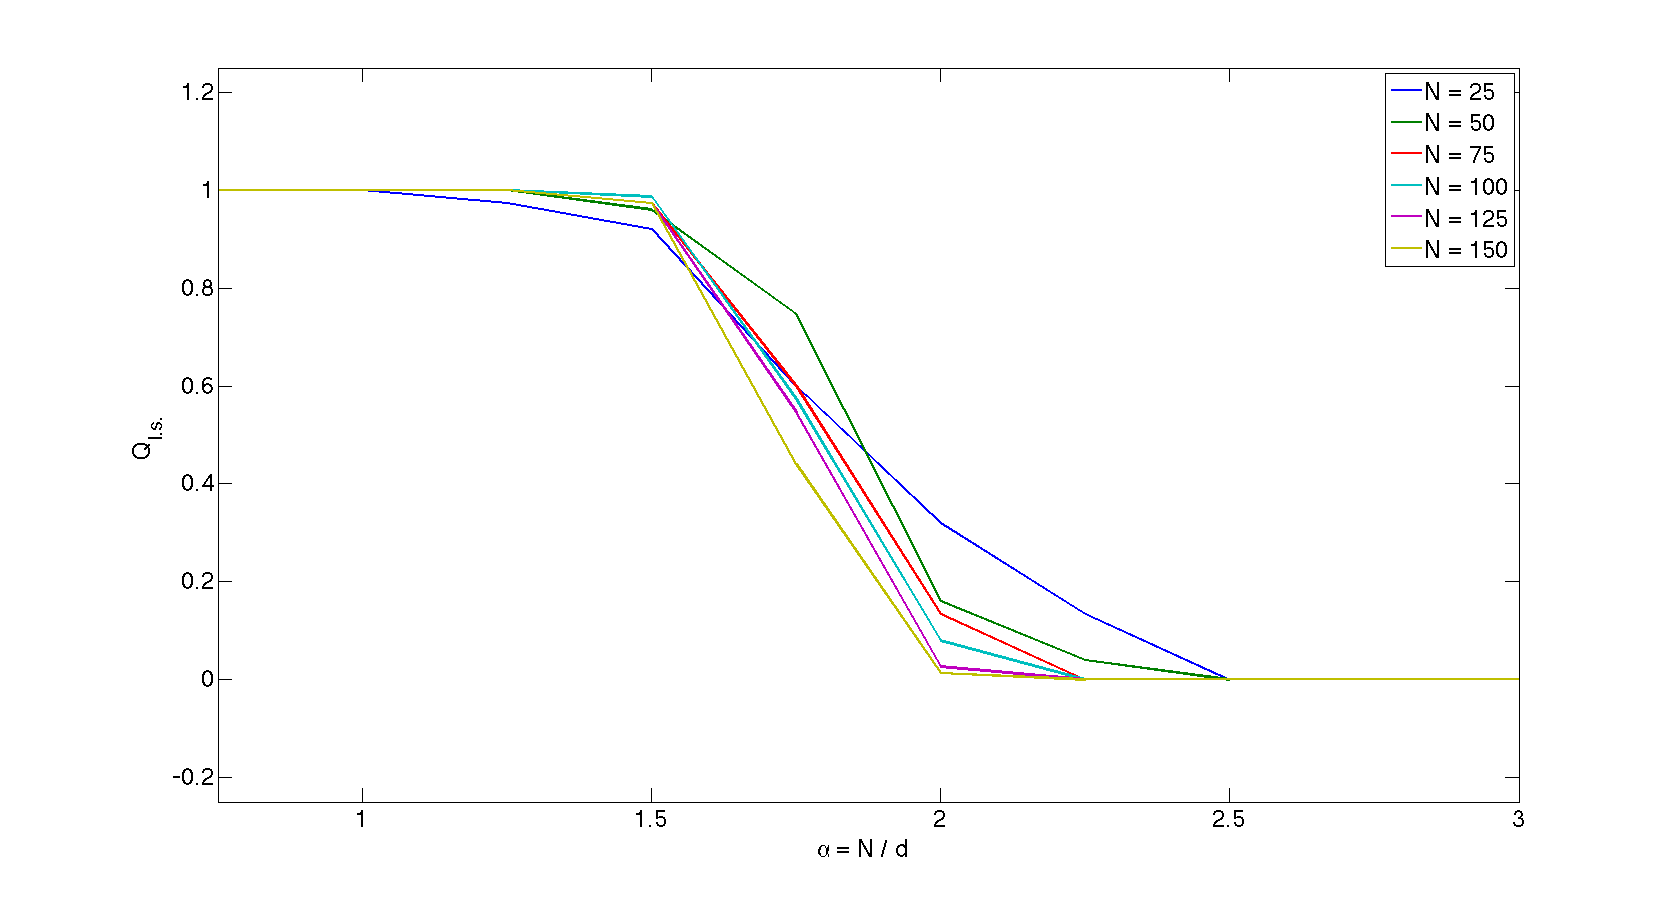
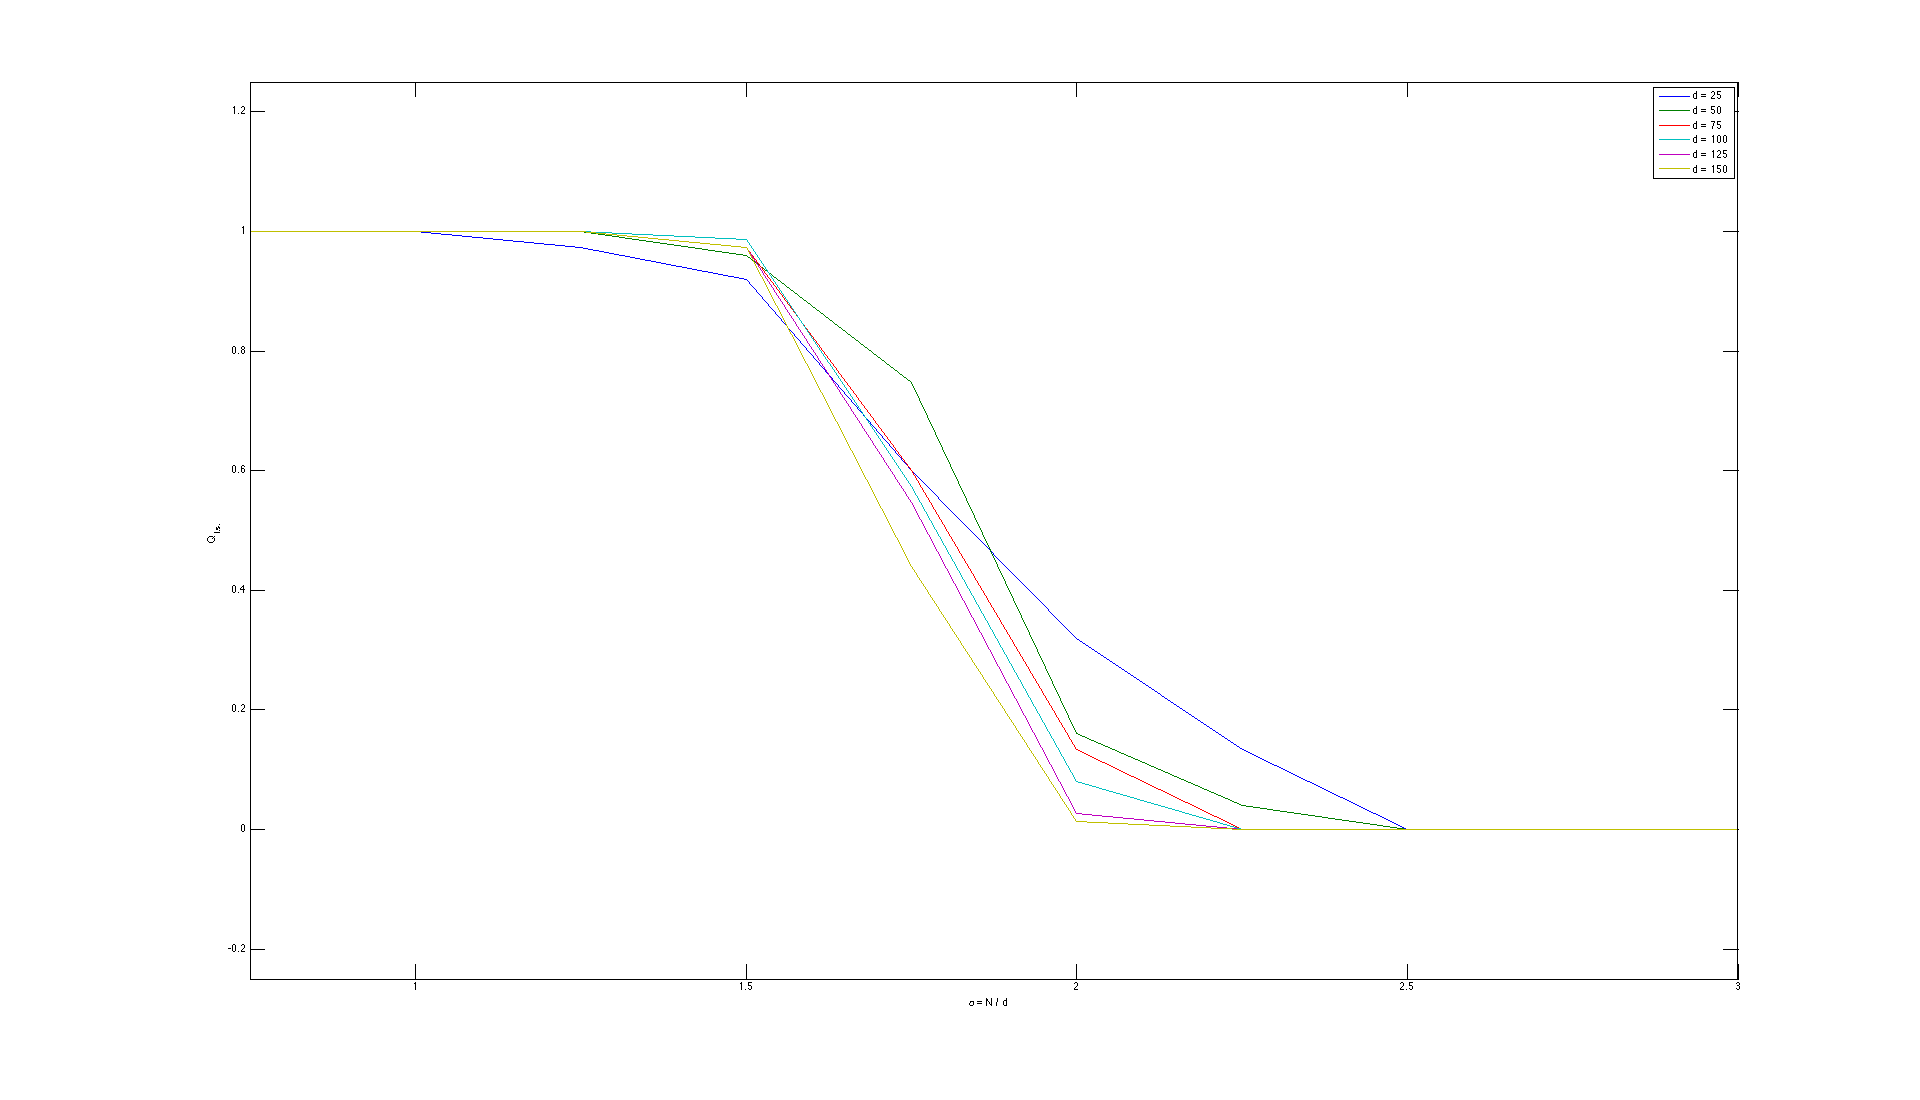
Plaatjes

diff --git a/assignment1/report/intro.tex b/assignment1/report/intro.tex
@@ -7,15 +7,13 @@ The most simple case of a neural network is the single-layer perceptron, see \au
 
 % Linear seperability
 The perceptron is a linear binary classifier, which means that is separates classes with a hyperplane, as a consequence perceptrons can only separate linearly separable datasets. We identify two different types of linearly separable datasets: homogeneously separable data sets can be separated by a hyperplane through the origin, inhomogeneously separable data sets cannot be separated by a hyperplane through the origin but they can be separated by a hyperplane if it is offset with a certain bias with respect to the origin. This bias can be incorporated into the network by adding a fixed input of minus one and the bias as the weight connected to this fixed input. Thus we will make no distinction between homogeneously and inhomogeneously separable datasets and talk about linearly separable sets \cite{rojas1996neural}.
-
-It can be shown that the perceptron converges, i.e. it separates positive examples for the negatives, if the input data set is linearly separable.
-
 \begin{figure}[H]
 	\centering
 	\includegraphics[width=\columnwidth]{./img/perceptron}
 	\caption{A perceptron.}
 	\label{fig:1:perceptron}
 \end{figure}
+It can be shown that the perceptron converges, i.e. it separates positive examples for the negatives, if the input data set is linearly separable.
 
 \textcite{cover1965geometrical} showed that the probability that a randomly chosen dichotomy  in general position is linearly separable can be proven to be:
 	\begin{equation}\label{eq:1:lsChance}
@@ -27,11 +25,6 @@ It can be shown that the perceptron converges, i.e. it separates positive exampl
 		& \text{otherwise}\\
 		\end{cases}
 	\end{equation}
-
-This result is based on the function $C(N,d)$ that defines the capacity of a hyperplane, i.e. the number of dichotomies it can separate:
-	\begin{equation}\label{eq:2:C}
-		C(n,d) = \sum_{k=0}^{N-1} \binom{N-1}{k} C(1, d - k).
-	\end{equation}
-
+Based on this presented probability one can show that a $d$-input linear has a high probability of being able to learn a random dichotomy on up to $2d$ patterns. When $N < 2d$ generalization may be poor because the network is underconstrained and the solution is unlikely to generalize well to new patterns \cite{reed1998neural}.
 
 In this paper we consider the Rosenblatt algorithm for perceptron training, furthermore we show with two experiments that our implementaion exhibts the mentioned theoretical properties. 

diff --git a/assignment1/report/practicum1.tex b/assignment1/report/practicum1.tex
@@ -67,8 +67,6 @@
 
 \maketitle
 
-% \todo[inline]{Neural Smithing (p21) heeft een formule die de kans geeft dat een randomly gekozen dichotomy l.s.}
-% \todo[inline]{Het lijkt alsof hij met de remark aan het einde van de slides wil zeggen dat patterns uit getrokken uit een standaard normaal distribution altijd in general position zijn.}
 % \todo[inline]{Use compactitem environment for lists}
 
 % Example table:
@@ -95,14 +93,8 @@
 \section{Method}
 \input{method.tex}	
 
-\section{Experiment}
+\section{Experiments}
 \input{experiment.tex}	
-
-% \section{Results}
-% \input{results.tex}
-
-% \section{Discussion}
-% \input{discussion.tex}
 
 \printbibliography
 

diff --git a/assignment1/code/plot_data.m b/assignment1/code/plot_data.m
@@ -40,6 +40,6 @@ axis([0.75 3.0 -0.25 1.25]);
 xlabel('\alpha = N / d');
 ylabel('Q_{l.s.}');
 
-legend('N = 25', 'N = 50', 'N = 75', 'N = 100', 'N = 125', 'N = 150');
+legend('d = 25', 'd = 50', 'd = 75', 'd = 100', 'd = 125', 'd = 150');
 % saveas(data_plot, '../report/img/Ab_N25-25-150_nd75_nmax250.png', 'png');
 clear all;
